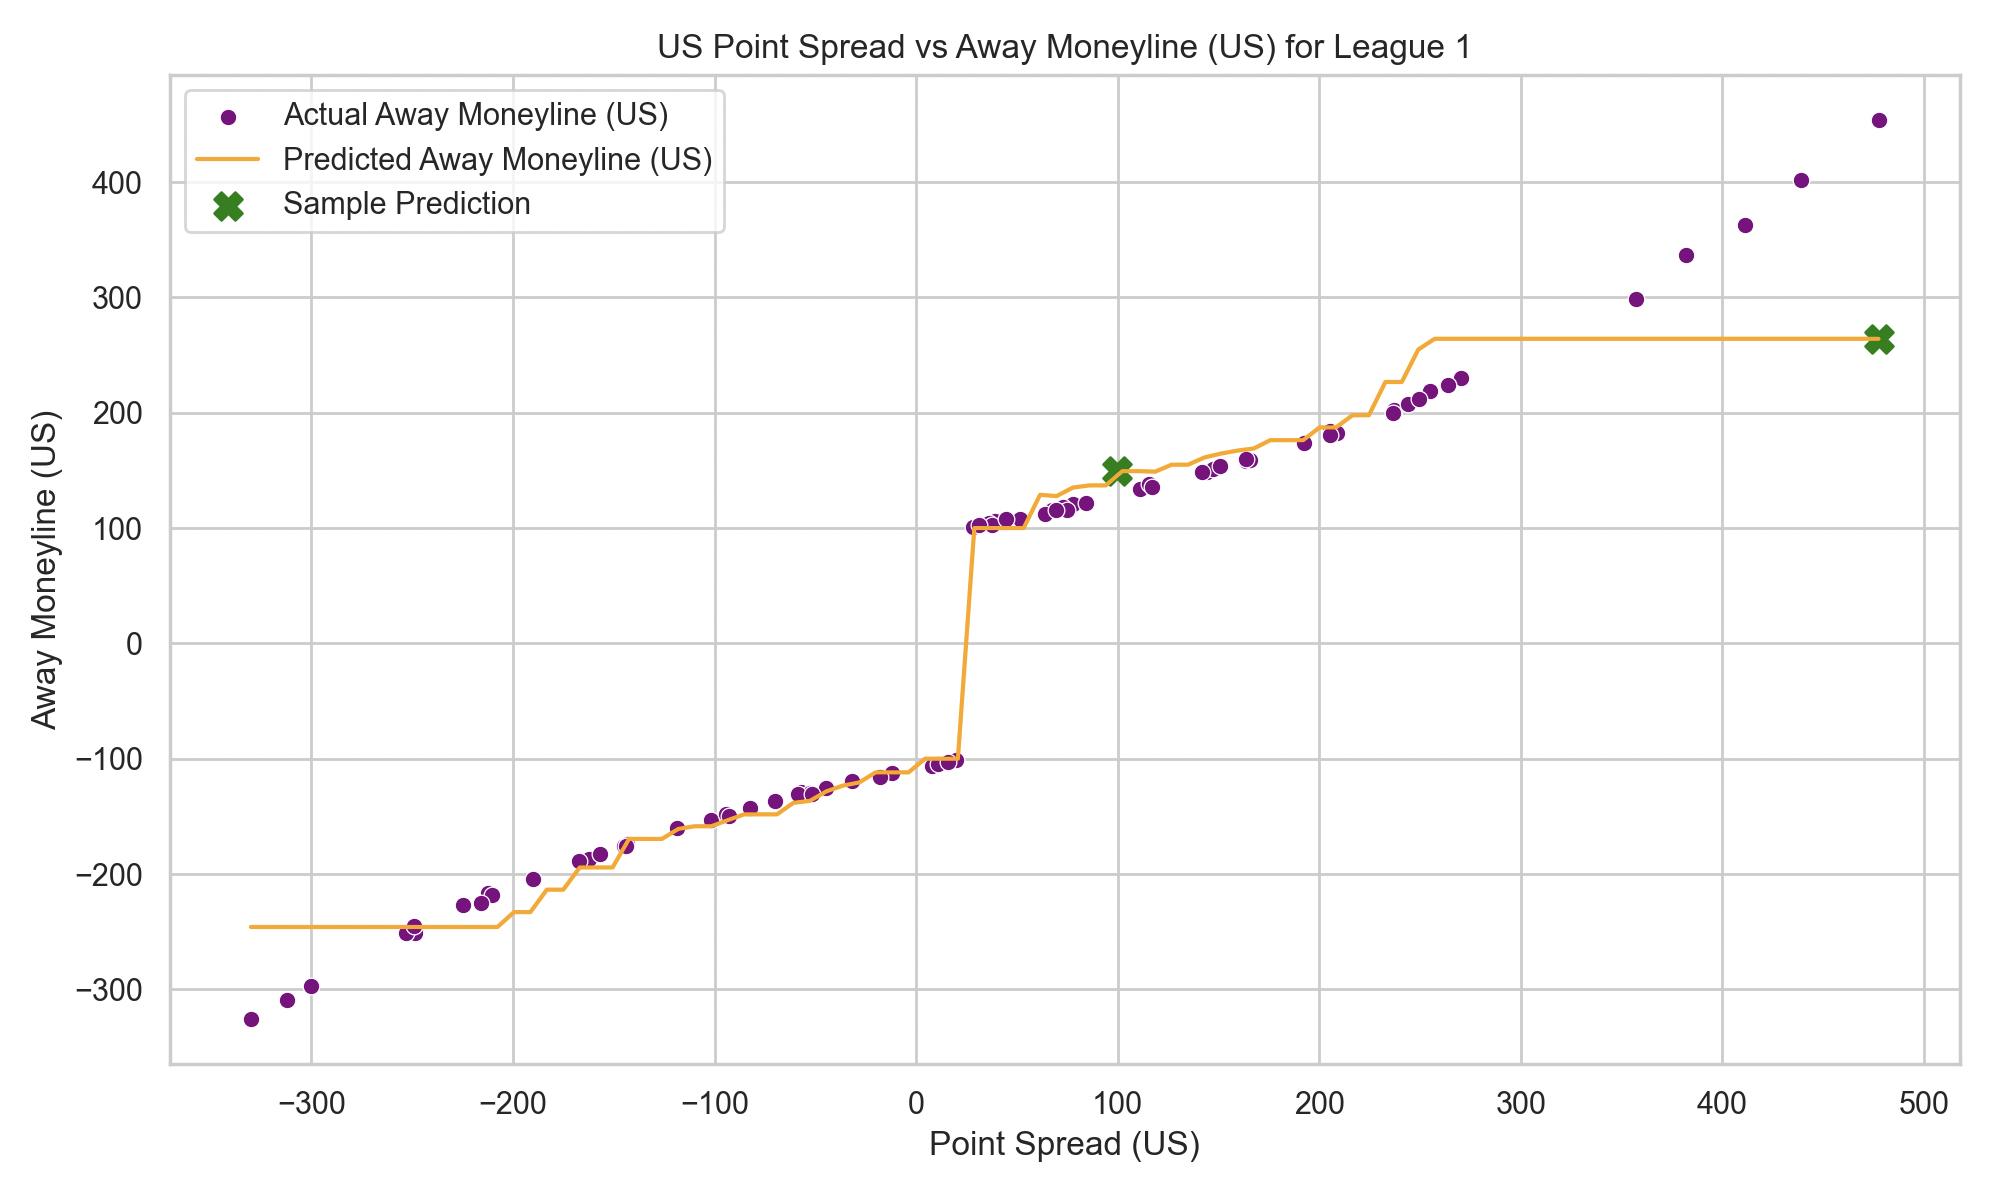
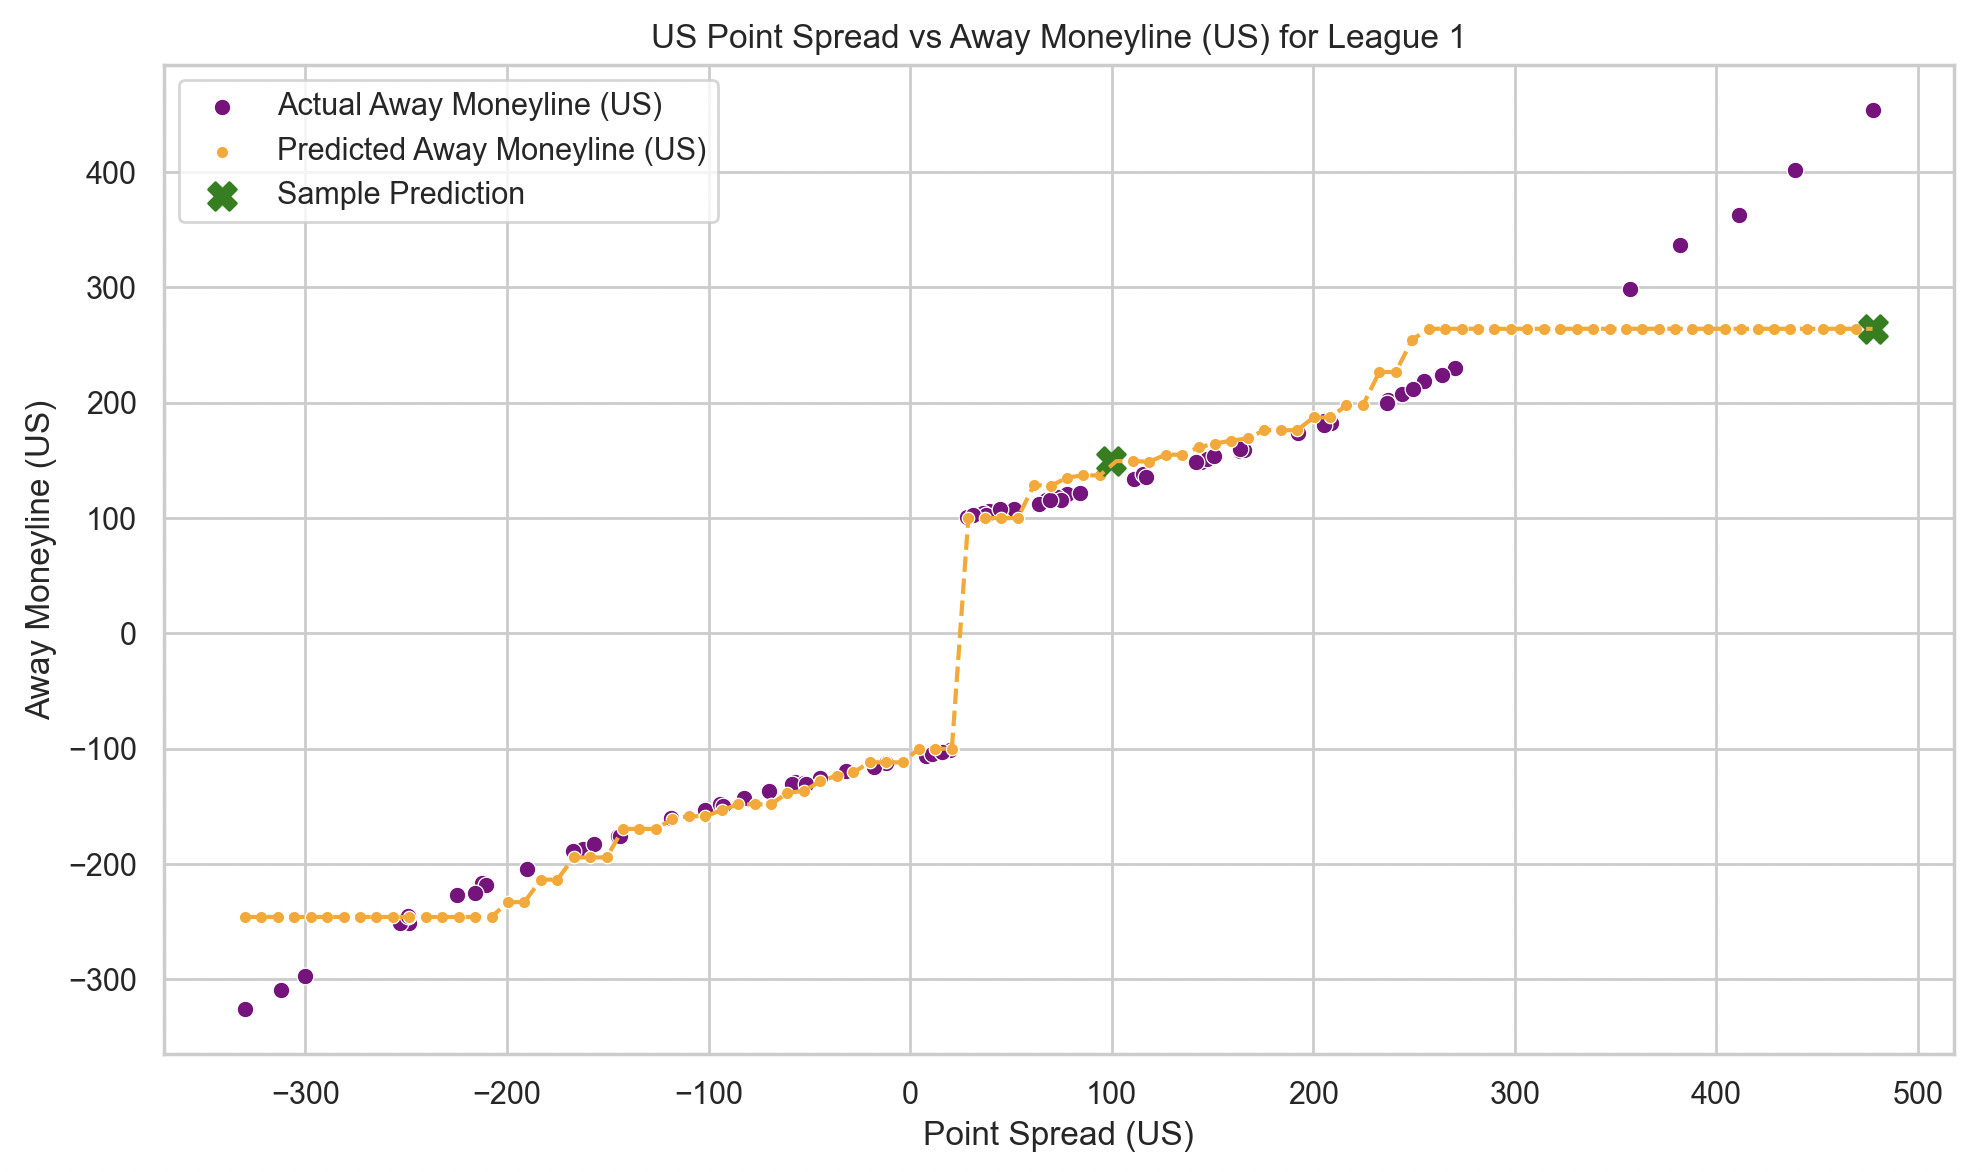
Change graphs and include linear regression model to justify switching

diff --git a/linearRegression.py b/linearRegression.py
@@ -1,0 +1,155 @@
+import pandas as pd
+import numpy as np
+import lightgbm as lgb
+from sklearn.linear_model import LinearRegression
+from sklearn.model_selection import train_test_split
+from sklearn.metrics import mean_absolute_error, mean_squared_error, mean_absolute_percentage_error
+import warnings
+
+warnings.filterwarnings('ignore')
+
+def american_to_decimal(american_odds):
+    if american_odds > 0:
+        return 1 + (american_odds / 100)
+    else:
+        return 1 + (100 / abs(american_odds))
+
+def decimal_to_american(decimal_odds):
+    if decimal_odds >= 2.0:
+        return int((decimal_odds - 1) * 100)
+    elif decimal_odds > 1.0:
+        return int(-100 / (decimal_odds - 1))
+    else:
+        # Handle cases where decimal odds are less than or equal to 1 means data is invalid
+        return np.nan 
+
+# Function to enforce valid American odds
+def enforce_valid_odds(odds):
+    if odds > -100 and odds < 100:
+        return 100 if odds > 0 else -100
+    return odds
+
+def load_data(csv_path):
+    
+    df = pd.read_csv(csv_path)
+    
+    # Replace string 'NA' with actual NaN values
+    df.replace(['NA', 'na', 'NaN', 999], np.nan, inplace=True)
+    
+    # Convert data types
+    numeric_columns = ['point_spread_us', 'point_spread_eu', 'league_id',
+                       'homeprice_us', 'awayprice_us',
+                       'homeprice_eu', 'awayprice_eu']
+    for col in numeric_columns:
+        df[col] = pd.to_numeric(df[col], errors='coerce')
+    
+    return df
+
+def train_linear_model(df):
+    features = ['point_spread_us', 'league_id']
+    X = df[features]
+    y_home = df['homeprice_us']
+    y_away = df['awayprice_us']
+    
+    # Split the data
+    X_train_home, X_val_home, y_train_home, y_val_home = train_test_split(
+        X, y_home, test_size=0.2, random_state=42
+    )
+    
+    X_train_away, X_val_away, y_train_away, y_val_away = train_test_split(
+        X, y_away, test_size=0.2, random_state=42
+    )
+    
+    # Initialize and train models
+    lr_home = LinearRegression()
+    lr_home.fit(X_train_home, y_train_home)
+    
+    lr_away = LinearRegression()
+    lr_away.fit(X_train_away, y_train_away)
+    
+    # Predict
+    preds_home = lr_home.predict(X_val_home)
+    preds_away = lr_away.predict(X_val_away)
+    
+    # Evaluate
+    mae_home = mean_absolute_error(y_val_home, preds_home)
+    mse_home = mean_squared_error(y_val_home, preds_home)
+    mape_home = mean_absolute_percentage_error(y_val_home, preds_home)
+    
+    mae_away = mean_absolute_error(y_val_away, preds_away)
+    mse_away = mean_squared_error(y_val_away, preds_away)
+    mape_away = mean_absolute_percentage_error(y_val_away, preds_away)
+    
+    print(f"Linear Regression Home Price US Model MAE: {mae_home:.2f}")
+    print(f"Linear Regression Home Price US Model MSE: {mse_home:.2f}")
+    print(f"Linear Regression Home Price US Model MAPE: {mape_home:.2f}")
+    
+    print(f"Away Price US Model MAE: {mae_away:.2f}")
+    print(f"Away Price US Model MSE: {mse_away:.2f}")
+    print(f"Away Price US Model MAPE: {mape_away:.2f}")
+    
+    return lr_home, lr_away
+
+def predict_odds(point_spread, league_id, model_home, model_away):
+    
+    # Create a DataFrame for the input
+    input_df = pd.DataFrame({
+        'point_spread_us': [point_spread],
+        'league_id': [league_id]
+    })
+    
+    # Predict home and away odds
+    predicted_home_us = model_home.predict(input_df)[0]
+    predicted_away_us = model_away.predict(input_df)[0]
+    
+    # Enforce valid American odds
+    predicted_home_us = enforce_valid_odds(predicted_home_us)
+    predicted_away_us = enforce_valid_odds(predicted_away_us)
+    
+    # Convert to Decimal odds
+    predicted_home_eu = american_to_decimal(predicted_home_us)
+    predicted_away_eu = american_to_decimal(predicted_away_us)
+    
+    return {
+        'homeprice_us': round(predicted_home_us, 2),
+        'awayprice_us': round(predicted_away_us, 2),
+        'homeprice_eu': round(predicted_home_eu, 2),
+        'awayprice_eu': round(predicted_away_eu, 2)
+    }
+
+def main():
+    csv_path = 'xyzballodds_cleaned.csv'
+    
+    # Load data
+    df = load_data(csv_path)
+    print(f"Data loaded and cleaned. {df.shape[0]} records remaining.")
+    extreme_threshold = 200
+    extreme_points1 = df[(df['homeprice_us'] > extreme_threshold) | (df['homeprice_us'] < -extreme_threshold)]
+    extreme_points2 = df[(df['awayprice_us'] > extreme_threshold) | (df['awayprice_us'] < -extreme_threshold)]
+    extreme_points3 = df[(df['point_spread_us'] > extreme_threshold) | (df['point_spread_us'] < -extreme_threshold)]
+    df_augmented = pd.concat([df, extreme_points1, extreme_points2, extreme_points3])
+    
+    # Train models
+    model_home, model_away = train_linear_model(df_augmented)
+    
+    print("\nExample Usage:")
+    samples = [
+        {'point_spread': 99.5, 'league_id': 1},
+        {'point_spread': 0.5, 'league_id': 2},
+        {'point_spread': -99.5, 'league_id': 3},
+        {'point_spread': 477.5, 'league_id': 1}
+    ]
+    
+    for sample in samples:
+        point_spread = sample['point_spread']
+        league_id = sample['league_id']
+        odds = predict_odds(point_spread, league_id, model_home, model_away)
+        print("\nPredicted Odds:")
+        print(f"Home Price (US): {odds['homeprice_us']}")
+        print(f"Away Price (US): {odds['awayprice_us']}")
+        print(f"Home Price (EU): {odds['homeprice_eu']}")
+        print(f"Away Price (EU): {odds['awayprice_eu']}")
+
+if __name__ == "__main__":
+    main()
+    

diff --git a/plot_graphs.py b/plot_graphs.py
@@ -207,7 +207,10 @@ def plot_relationships(df, model_home, model_away, samples, league_id=1):
     # Plot US Point Spread vs Home Moneyline (US)
     plt.figure(figsize=(10, 6))
     sns.scatterplot(x='point_spread_us', y='homeprice_us', data=df_plot, label='Actual Home Moneyline (US)', color='blue')
-    sns.lineplot(x='point_spread_us', y='pred_home_us', data=prediction_df, label='Predicted Home Moneyline (US)', color='red')
+    sns.scatterplot(x='point_spread_us', y='pred_home_us', data=prediction_df, label='Predicted Home Moneyline (US)', color='red')
+    a = sns.lineplot(x='point_spread_us', y='pred_home_us', data=prediction_df, color='red')
+    a.lines[0].set_linestyle("--")
+    a.collections[1].set_sizes([20])
     
     # Plot sample predictions
     plotted = False
@@ -227,8 +230,11 @@ def plot_relationships(df, model_home, model_away, samples, league_id=1):
     # Plot US Point Spread vs Away Moneyline (US)
     plt.figure(figsize=(10, 6))
     sns.scatterplot(x='point_spread_us', y='awayprice_us', data=df_plot, label='Actual Away Moneyline (US)', color='purple')
-    sns.lineplot(x='point_spread_us', y='pred_away_us', data=prediction_df, label='Predicted Away Moneyline (US)', color='orange')
-    
+    sns.scatterplot(x='point_spread_us', y='pred_away_us', data=prediction_df, label='Predicted Away Moneyline (US)', color='orange')
+    b = sns.lineplot(x='point_spread_us', y='pred_away_us', data=prediction_df, color='orange')
+    b.lines[0].set_linestyle("--")
+    b.collections[1].set_sizes([20])
+
     # Plot sample predictions
     plotted = False
     for sample in samples:

diff --git a/README.md b/README.md
@@ -14,9 +14,18 @@
 
 My understanding of the dataset provided is that there are 209 games from 3 unique leagues where we are given the point spread from a US bookmaker and a point spread from a EU bookmaker for the same game. We are also given the moneyline for the home team and the away team in both American and Decimal Odds (most likely from the same bookmaker respectively). The data has some errors that we need to find and clean. From the data we also know a positive point spread means the home team is the favourite and a negative point spread means the away team is a favourite. Our goal is to find the relationship between point spread and the moneylines for the home and away team.
 
-Initially, I tried using linear regression to model the data because of the intuitive linear relationship between point spread and moneyline odds. A greater point spread typically indicates that the bookmaker believes a team is more likely to win by a larger margin, and thus their moneyline odds should be higher. Then in terms of who the favourite/underdog is, the more positive the point spread is, the more negative the home team's moneyline will be and more positive the away team's money line will be (if we're using American Odds), and vice versa. However, the relationship is obviously not one to one. In other words, if the home team is -500, that doesn't automatically mean the away team is +500, however it should be somewhat linear. I think linear regression failed to catch the subtleties and nonlinearities in the data, which is shown by the larger error. Thus, I went to a Light Gradient Boosted Machine (LGBM) model to model this function.
+Initially, I tried using linear regression to model the data because of the intuitive linear relationship between point spread and moneyline odds. A greater point spread typically indicates that the bookmaker believes a team is more likely to win by a larger margin, and thus their moneyline odds should be higher. Then in terms of who the favourite/underdog is, the more positive the point spread is, the more negative the home team's moneyline will be and more positive the away team's money line will be (if we're using American Odds), and vice versa.
 
-I think LGBM was a good choice for this problem because it's designed to handle structured tabular data efficiently, which is exactly the format of this dataset. Its gradient-boosting approach iteratively builds an ensemble of decision trees, allowing it to focus on correcting errors from previous iterations and fine-tuning predictions. LGBM can handle missing or noisy data effectively, which is particularly important given the initial errors in the dataset that needed cleaning. Also it has the ability to incorporate regularization (e.g., L1/L2 penalties) which helps prevent overfitting, ensuring that the model remains generalizable even with the limited number of data points available.
+However, the relationship is obviously not one to one. In other words, if the home team is -500, that doesn't automatically mean the away team is +500, however it should be somewhat linear. I think linear regression failed to catch the subtleties and nonlinearities in the data, which is shown by the larger error. We measure the error of the model with multiple error metrics to get the whole picture of how the model is doing. We use Mean Absolute Error (MAE), Mean Squared Error(MSE), and Mean Absolute Percentage Error (MAPE).
+
+> Linear Regression Home Price US Model MAE: 58.25 \
+> Linear Regression Home Price US Model MSE: 4778.04 \
+> Linear Regression Home Price US Model MAPE: 0.38 \
+> Linear Regression Away Price US Model MAE: 59.80 \
+> Linear Regression Away Price US Model MSE: 5237.16 \
+> Linear Regression Away Price US Model MAPE: 0.39
+
+Thus, I went to a Light Gradient Boosted Machine (LGBM) model to model this function. I think LGBM was a good choice for this problem because it's designed to handle structured tabular data efficiently, which is exactly the format of this dataset. Its gradient-boosting approach iteratively builds an ensemble of decision trees, allowing it to focus on correcting errors from previous iterations and fine-tuning predictions. LGBM can handle missing or noisy data effectively, which is particularly important given the initial errors in the dataset that needed cleaning.
 
 At some point I thought of splitting the dataset into 12 models (home and away, underdog and favourite, for each of the 3 leagues). I decided to create just 2 models: one for predicting home team odds and another for predicting away team odds. This approach helps prevent overfitting, which is particularly important given the limited size of the dataset (209 games). Splitting the data into 12 subsets would leave each model with even fewer training points, increasing the risk of overfitting to noise and producing less generalizable results. Additionally, by training just two models, we ensure the system is more practical for predicting odds for new leagues. With this approach, the models can generalize across leagues, allowing them to immediately generate reasonable odds for leagues without historical data, instead of requiring years of data collection to produce reliable predictions.
 
@@ -24,7 +33,7 @@ At some point I thought of splitting the dataset into 12 models (home and away, 
 
 From inspecting the plots of the data and looking at the data myself. Below is the found 3 errors within the data and how I fixed it:
 
-1.  League 2 does not have an EU point spread and therefor has no EU odds. **Solution:** We don't want to drop the row because we have limited data (209 points), and especially we would be dropping a whole league. The intuitive solution is to just use what we have (i.e. use point_spread_us and American odds) and copy them over to decimal. Another solution
+1.  League 2 does not have any EU point spread and no EU odds. **Solution:** We don't want to drop the row because we have limited data (209 points), and especially we would be dropping a whole league. The intuitive solution is to just use what we have (i.e. use point_spread_us and American odds) and copy them over to decimal. Another solution
 2.  5 rows, specifically game_id's 30, 31, 32, 180, 181 have no American odds (or both homeprice_us and awayprice_us are listed as 999). **Solution:** Similarly to above, we use the knowledge we have: the homeprice_eu and awayprice_eu. Although the point spreads are slightly different and therefore the odds should be slightly different we know they should be very similar and generalize this for the model.
 3.  The sneakiest of them all, when point_spread_us and point_spread_eu disagree on the favourite. We know a positive point spread means the home team is the favourite and the away team is the underdog (with the exception of small point spread where both teams are favourites). That is, the error is when point_spread_us < 0 and point_spread_eu > 0 (e.g. game_id 33: point_spread_us = -147.5 and point_spread_eu = 146.5). **Solution:** To determine which point spread is correct we have to look at the other fields. We look at the American Odds and the Decimal Odds and take whichever they both agree on is the favourite. If they agree the home team is the favourite then both point spreads should be positive, otherwise we should make them both negative.
 
@@ -32,16 +41,16 @@ These changes take place in `clean_data.py`.
 
 ## Results
 
-After these changes the model trained well despite the lack of data. We measure the error of the model with multiple error metrics to get the whole picture of how the model is doing. We use Mean Absolute Error (MAE), Mean Squared Error(MSE), and Mean Absolute Percentage Error (MAPE). Below shows the results of only cleaning the data with techniques 1 and 2 to cleaning the data with techniques 1, 2, and 3 from `plot_graphs.py`:
+After these changes the model trained well despite the lack of data. Below shows the results of only cleaning the data with techniques 1 and 2 to cleaning the data with techniques 1, 2, and 3 from `plot_graphs.py`:
 
-Home Price US Model MAE: ~24 ⇒ 11.83 \
-Home Price US Model MSE: ~1500 ⇒ 547.56 \
-Home Price US Model MAPE: ~16% ⇒ 0.07% \
-Away Price US Model MAE: ~25 ⇒ 10.67 \
-Away Price US Model MSE: ~1500 ⇒ 283.29 \
-Away Price US Model MAPE: ~17% ⇒ 0.07% \
+> Home Price US Model MAE: ~24 ⇒ 11.83 \
+> Home Price US Model MSE: ~1500 ⇒ 547.56 \
+> Home Price US Model MAPE: ~16% ⇒ 0.07% \
+> Away Price US Model MAE: ~25 ⇒ 10.67 \
+> Away Price US Model MSE: ~1500 ⇒ 283.29 \
+> Away Price US Model MAPE: ~17% ⇒ 0.07%
 
-This makes sense because mean squared error punishes large mistakes greater than mean absolute error. So before cleaning the data properly there were many outliers (from technique 3) that didn't follow the intuitive nature of positive point spread, home team favourite, away team underdog and negative point spread, away team favourite, home team underdog.
+This makes sense because mean squared error punishes large mistakes greater than mean absolute error. So before cleaning the data properly there were many outliers (from technique 3) that didn't follow the intuitive nature of positive point spread, home team favourite, away team underdog and negative point spread, away team favourite, home team underdog. The graphs below plots the raw data points after being cleaned, and the predicted moneyline for each point spread starting from the minimum point spread until the maximum point spread incrementing by 1% each time.
 
 ![image](/images/US_PSvsHomeOddsL1V1.png)
 ![image](/images/US_PSvsAwayOddsL1V1.png)
@@ -64,12 +73,12 @@ We can also tell why the mean squared error is so large: The extreme points, whe
 
 ## Version 2 Results
 
-Home Price US Model MAE: 8.54 \
-Home Price US Model MSE: 348.06 \
-Home Price US Model MAPE: 0.05% \
-Away Price US Model MAE: 8.95 \
-Away Price US Model MSE: 351.04 \
-Away Price US Model MAPE: 0.06%
+> Home Price US Model MAE: 8.54 \
+> Home Price US Model MSE: 348.06 \
+> Home Price US Model MAPE: 0.05% \
+> Away Price US Model MAE: 8.95 \
+> Away Price US Model MSE: 351.04 \
+> Away Price US Model MAPE: 0.06%
 
 ![image](/images/US_PSvsHomeOddsL1V2.png)
 ![image](/images/US_PSvsAwayOddsL1V2.png)
@@ -84,9 +93,11 @@ At first when I saw these graphs, I certainly thought the model was overfitting 
 
 1. Adjust the parameters of the model. More specifically, number of leaves and learning rate. Reducing the number of leaves from 144 to 20 limits the models complexity and controls overfitting. Using a learning rate less than 0.1 (this model uses 0.05) was another technique used to reduce overfitting
 2. Early stopping. LightGBM models have a parameter `callbacks = [lgb.early_stopping(stopping_rounds=50)]` that stop training early when it detects overfitting
-3. Cross-validation. Using sklearn's `cross_val_score` and measuring with MAE the results were ~2x: \
-   Cross-Validation MAE (Home Price): 21.4 \
-   Cross-Validation MAE (Away Price): 19.3 \
+3. Cross-validation. Using sklearn's `cross_val_score` and measuring with MAE the results were ~2x:
+
+   > Cross-Validation MAE (Home Price): 21.4 \
+   > Cross-Validation MAE (Away Price): 19.3
+
    which is good considering the size of the dataset and the range of the data (approximately -500 to 500).
 
 ## Final Submission
